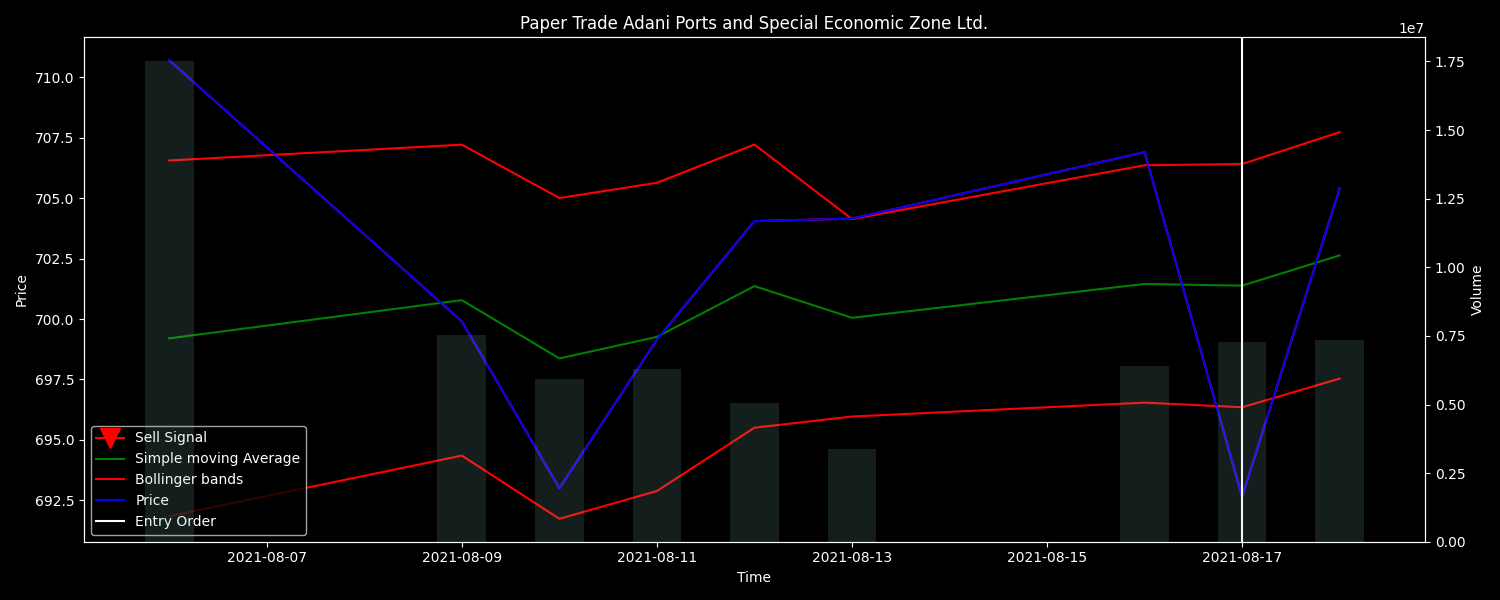
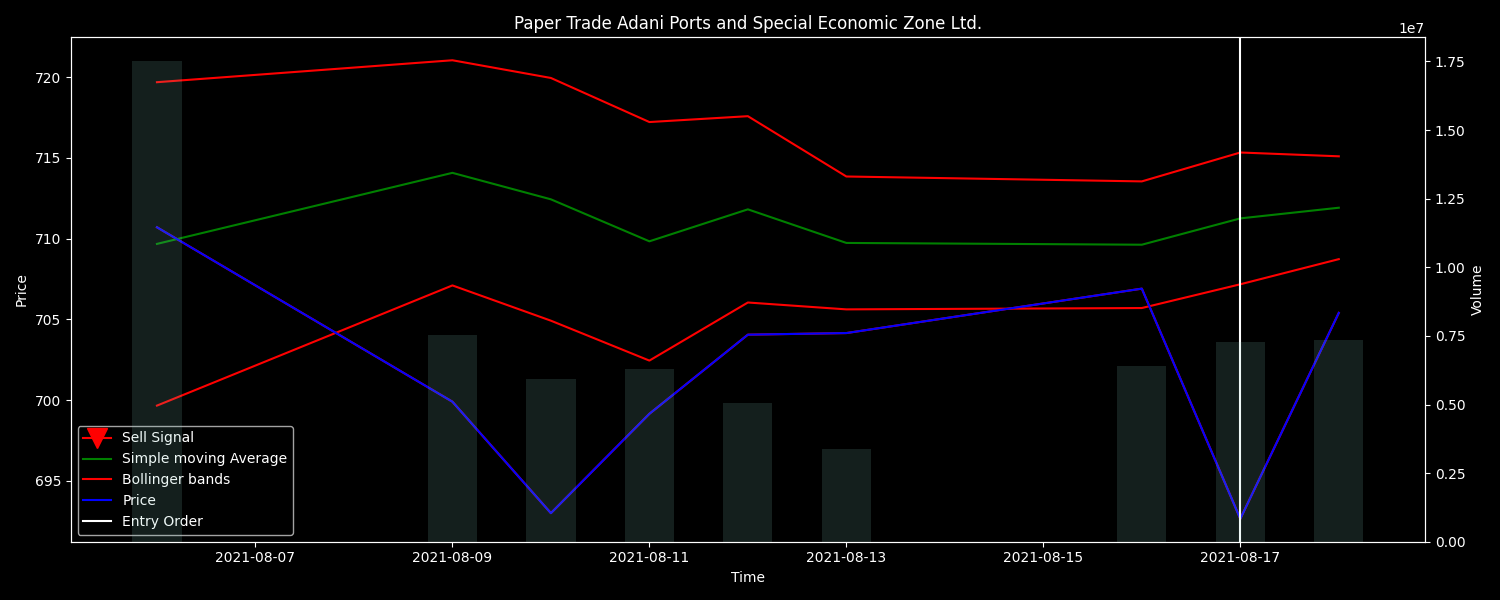
Completed all visualizations

diff --git a/restapi/services/Visualizations/lstm_visualizations/lstm_paper_trade_visualization.py b/restapi/services/Visualizations/lstm_visualizations/lstm_paper_trade_visualization.py
@@ -44,18 +44,13 @@ class LSTMPaperTradeVisualization(Visualization):
 
         # Set start date
         self.start_date = self.paper_trade.trade.entry_order.signal.ticker_data.time_stamp - datetime.timedelta(
-            days=self.strategy_config.indicator_time_period + 10
+            days=self.strategy_config.indicator_time_period + 50
         )
-
-        # print(self.paper_trade.trade.entry_order.signal.ticker_data.time_stamp)
-        # print(self.start_date)
 
         # Set end date
         self.end_date = self.paper_trade.trade.entry_order.ticker_data.time_stamp + datetime.timedelta(
             days=self.strategy_config.max_holding_period + 10
         )
-
-        # print(self.end_date)
 
         # Source data
         self.df = SourceData(
@@ -64,16 +59,11 @@ class LSTMPaperTradeVisualization(Visualization):
             end_date=self.end_date,
         ).get_df()
 
-        # print(self.df)
-
         # Modify df
-        # self.df.drop(['Adj Close'], axis=1, inplace=True)
         self.df.reset_index(inplace=True)
         self.df.rename(columns={'Close': 'close', 'Open': 'open', 'High': 'high', 'Low': 'low', 'Date': 'time_stamp',
                                 'Volume': 'volume'},
                        inplace=True)
-
-        # print(self.df)
 
         # Calculate indicators
         self.df = AllIndicators(
@@ -83,7 +73,10 @@ class LSTMPaperTradeVisualization(Visualization):
             sigma=self.strategy_config.sigma,
         ).calc()
 
-        # print(self.df)
+        # Adjust dataframe for graphing
+        self.df = self.df.iloc[20:]
+        self.df.reset_index(inplace=True)
+        print(self.df)
 
         # create the graph
 
@@ -133,10 +126,6 @@ class LSTMPaperTradeVisualization(Visualization):
             if self.df['time_stamp'][i].date() == self.paper_trade.trade.entry_order.ticker_data.time_stamp.date():
                 entry_order_index = i
 
-        # print(self.df)
-        # print(self.paper_trade.trade.entry_order.ticker_data.time_stamp.date())
-        # print(entry_order_index)
-
         # Plot entry order
         if entry_order_index != -1:
             ax1.axvline(self.df['time_stamp'][entry_order_index], label="Entry Order", color='white')
@@ -162,7 +151,7 @@ class LSTMPaperTradeVisualization(Visualization):
         ax1.legend()
         fig.tight_layout()
 
-        plt.savefig("/home/app/restapi/services/Visualizations/lstm_visualizations/test_lstm_paper_trade_visualization_image.png", dpi=100)
+        # plt.savefig("/home/app/restapi/services/Visualizations/lstm_visualizations/test_lstm_paper_trade_visualization_image.png", dpi=100)
 
         pic_io_bytes = io.BytesIO()
 

diff --git a/restapi/services/Visualizations/bb_visualizations/bb_paper_trade_visualization.py b/restapi/services/Visualizations/bb_visualizations/bb_paper_trade_visualization.py
@@ -47,15 +47,10 @@ class BBPaperTradeVisualization(Visualization):
             days=self.strategy_config.indicator_time_period + 10
         )
 
-        # print(self.paper_trade.trade.entry_order.signal.ticker_data.time_stamp)
-        # print(self.start_date)
-
         # Set end date
         self.end_date = self.paper_trade.trade.entry_order.ticker_data.time_stamp + datetime.timedelta(
             days=self.strategy_config.max_holding_period + 10
         )
-
-        # print(self.end_date)
 
         # Source data
         self.df = SourceData(
@@ -64,16 +59,12 @@ class BBPaperTradeVisualization(Visualization):
             end_date=self.end_date,
         ).get_df()
 
-        # print(self.df)
-
         # Modify df
         self.df.drop(['Adj Close'], axis=1, inplace=True)
         self.df.reset_index(inplace=True)
         self.df.rename(columns={'Close': 'close', 'Open': 'open', 'High': 'high', 'Low': 'low', 'Date': 'time_stamp',
                                 'Volume': 'volume'},
                        inplace=True)
-
-        # print(self.df)
 
         # Calculate indicators
         self.df = BollingerIndicator(
@@ -82,8 +73,6 @@ class BBPaperTradeVisualization(Visualization):
             dimension=self.strategy_config.get_dimension_display(),
             sigma=self.strategy_config.sigma,
         ).calc()
-
-        # print(self.df)
 
         # create the graph
 
@@ -114,6 +103,11 @@ class BBPaperTradeVisualization(Visualization):
             signal_label = 'Sell Signal'
             signal_marker = 'v'
             signal_color = 'red'
+
+        print('signal_label', signal_label)
+        print('signal_marker', signal_marker)
+        print('signal_color', signal_color)
+        print('signal_marker_index', signal_marker_index)
 
         # Plot signal
         ax1.plot(self.df['time_stamp'], self.df['close'], label=signal_label, marker=signal_marker, color=signal_color,
@@ -161,7 +155,7 @@ class BBPaperTradeVisualization(Visualization):
         ax1.legend()
         fig.tight_layout()
 
-        plt.savefig("/home/app/restapi/services/Visualizations/bb_visualizations/test_bb_paper_trade_visualization_image.png", dpi=100)
+        # plt.savefig("/home/app/restapi/services/Visualizations/bb_visualizations/test_bb_paper_trade_visualization_image.png", dpi=100)
 
         pic_io_bytes = io.BytesIO()
 

diff --git a/restapi/services/Visualizations/lstm_visualizations/lstm_signal_visualization.py b/restapi/services/Visualizations/lstm_visualizations/lstm_signal_visualization.py
@@ -107,7 +107,7 @@ class LSTMSignalVisualization(Visualization):
         ax1.legend()
         fig.tight_layout()
 
-        plt.savefig("/home/app/restapi/services/Visualizations/lstm_visualizations/test_lstm_signal_visualization_image.png", dpi=100)
+        # plt.savefig("/home/app/restapi/services/Visualizations/lstm_visualizations/test_lstm_signal_visualization_image.png", dpi=100)
 
         pic_io_bytes = io.BytesIO()
 

diff --git a/restapi/papertrader/views.py b/restapi/papertrader/views.py
@@ -67,6 +67,7 @@ def api_get_company_quote(req, papertrade_id):
 @api_view(['GET', ])
 def api_get_paper_trade_visualization(req, papertrade_id):
     try:
+
         paper_trade = PaperTrade.objects.get(id=papertrade_id)
         # print(paper_trade)
 

diff --git a/restapi/README.md b/restapi/README.md
@@ -190,13 +190,14 @@
     - Backtest Signals ![done]
     - Backtest Trade ![done]
     - Paper Trade ![done]
-  - TEST ALL VISUALIZATIONS ![varunincomplete]
+  - TEST ALL VISUALIZATIONS ![varuncomplete]
     - BB Signal ![done]
     - BB Trade ![done]
-    - BB Paper trade ![incomplete]
+    - BB Paper Trade ![done]
     - LSTM Signal ![done]
     - LSTM Trade ![done]
-    - LSTM Paper Trade ![incomplete]
+    - LSTM Paper Trade ![done]
+  - Re-initialize paper trading signals ![varunincomplete]
 
 ## Automated testing ![varuncomplete]
 ###### Using unit tests in-built in django - each class created must have unit tests which cover all test cases of a class
